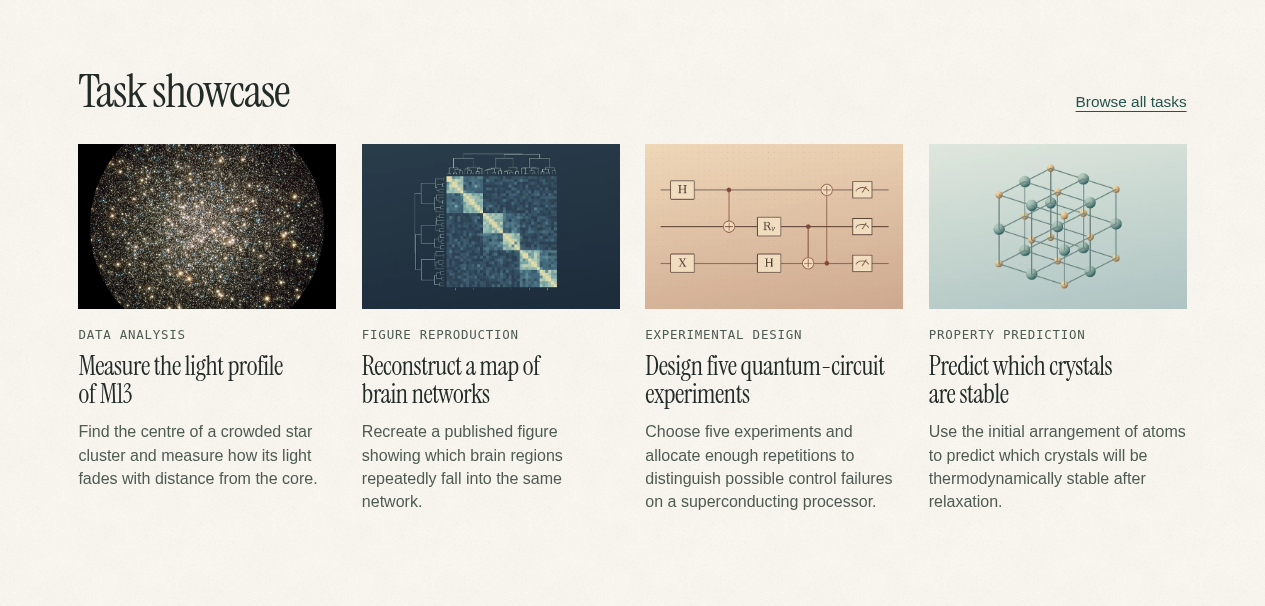
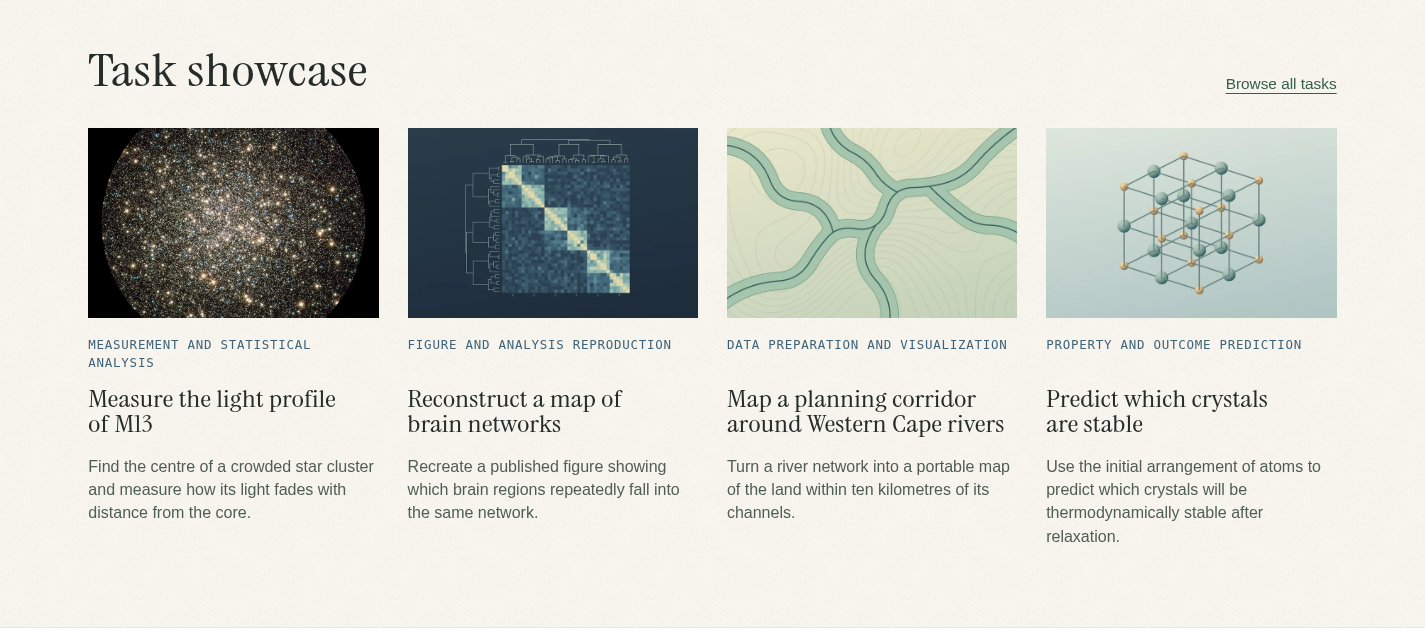
Align task showcase captions across responsive columns

Changed region(s): [[0.0617, 0.0891, 0.9557, 0.8614], [0.7399, 0.505, 0.9249, 0.5644]]

diff --git a/src/assets/site.css b/src/assets/site.css
@@ -145,6 +145,12 @@ h3 {font-size:clamp(1.65rem,2.15vw,2.15rem);letter-spacing:.006em}
 .card-content .eyeline {margin-bottom:.55rem;color:var(--blue)}
 .card-content h3 {font-size:clamp(1.63rem,2.05vw,2.04rem);line-height:1.06;text-wrap:pretty}
 .card-summary {font-size:1rem;line-height:1.46;color:var(--muted);margin-top:.72rem}
+@media(min-width:461px) {
+  .showcase-card,.showcase-card>a {display:grid;grid-template-rows:subgrid;grid-row:span 4;row-gap:0}
+  .showcase-card>a {align-items:start}
+  .card-content {display:contents}
+  .card-content .eyeline {margin-top:1.1rem}
+}
 .showcase-card a:is(:hover,:focus-visible) h3 {text-decoration:underline;text-underline-offset:.15em;text-decoration-thickness:1px}
 @media(hover:hover) and (prefers-reduced-motion:no-preference){.showcase-card a:hover img {transform:scale(1.025)}}
 .home-contribute {background:var(--green-wash)}
